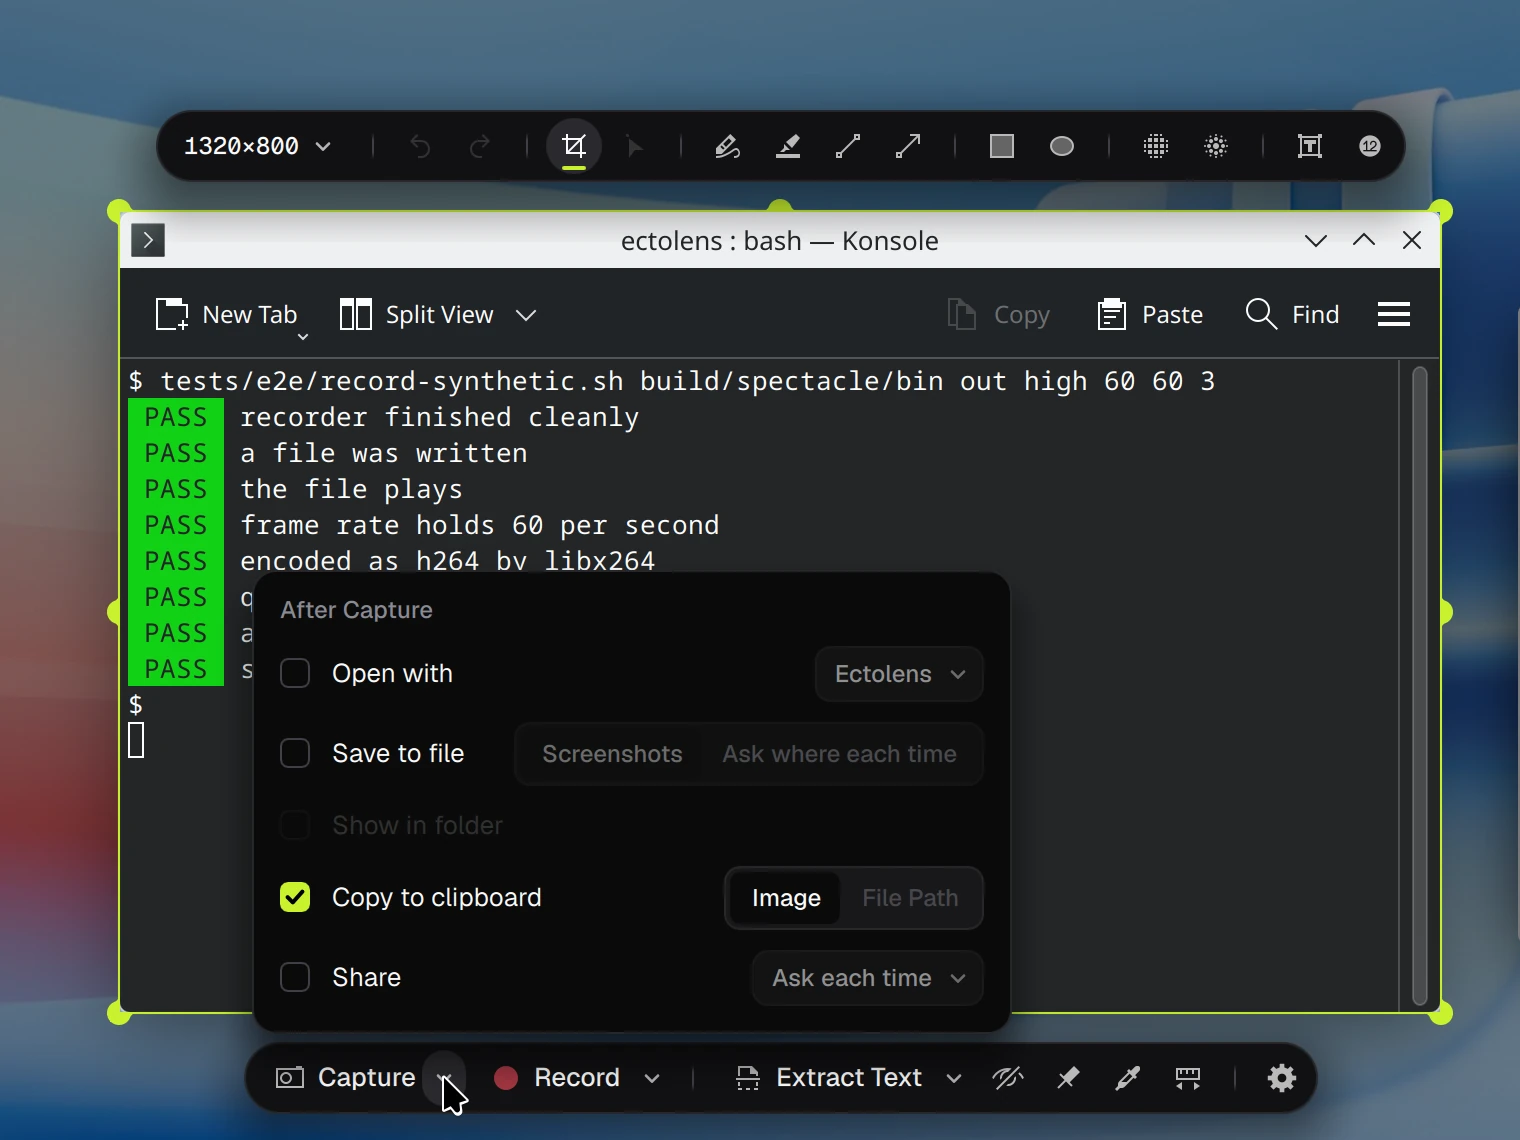
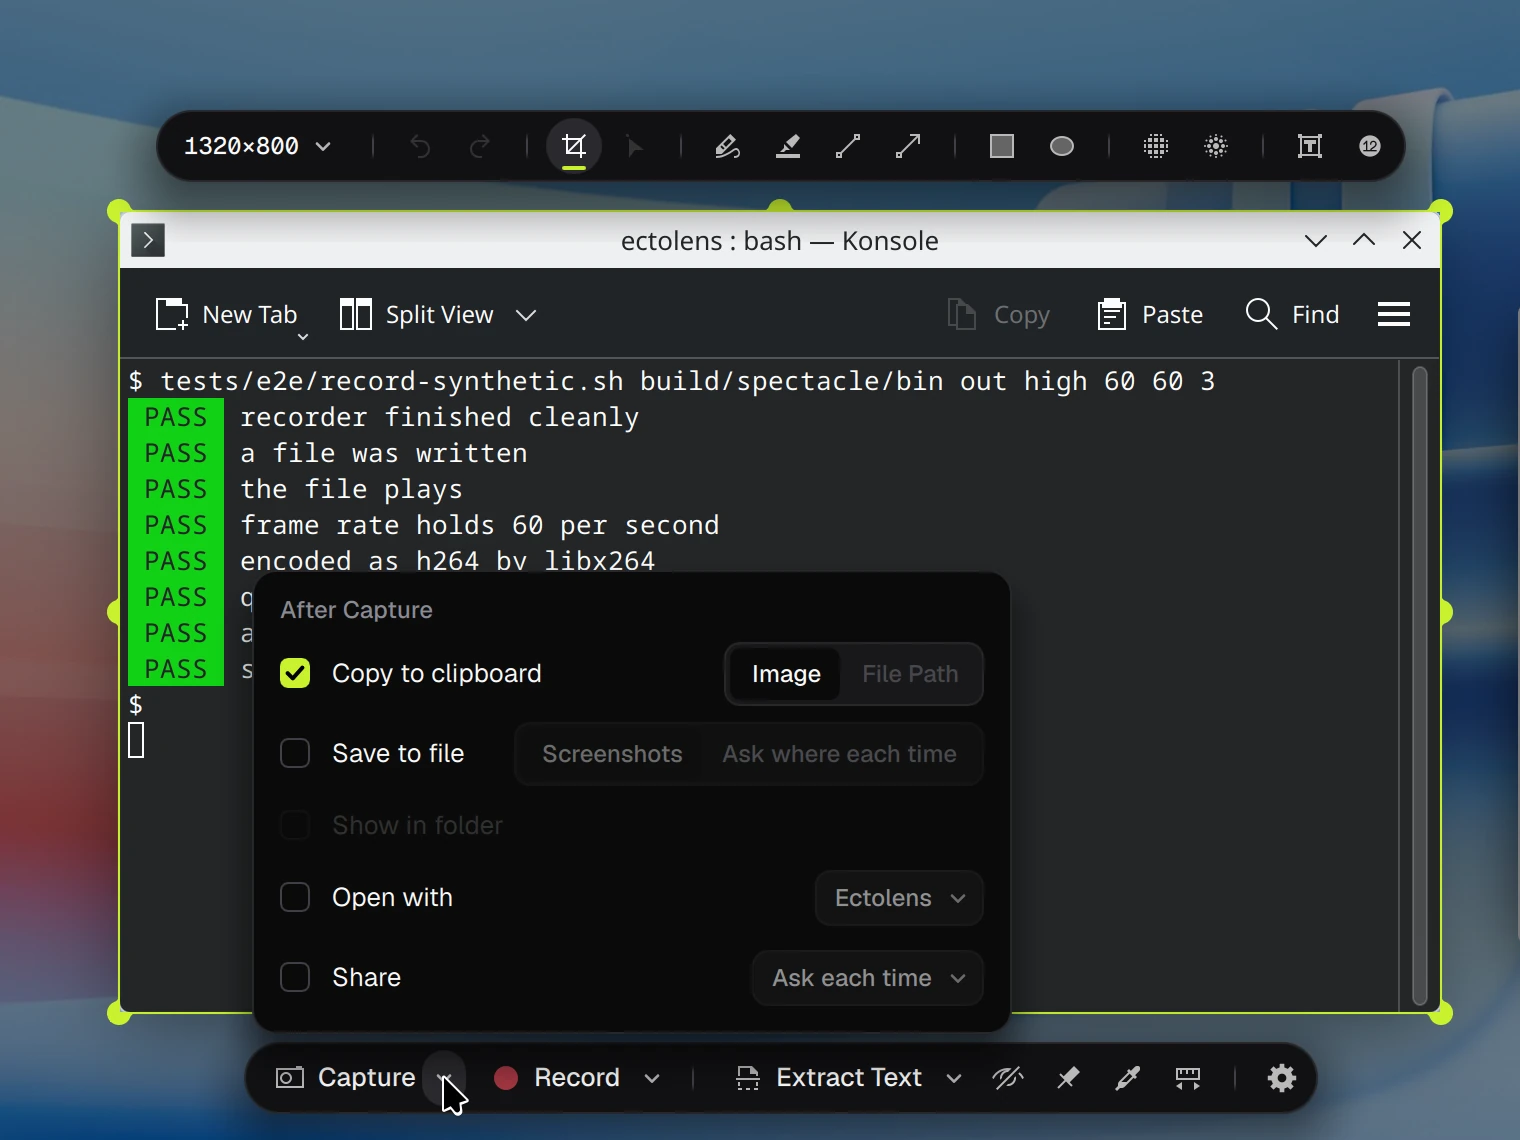
After Capture: Copy to clipboard first, Open with below Show in folder
The rows now read Copy to clipboard, Save to file, Show in folder, Open
with, Share, in Capture's menu and in Settings > General alike. The
README's picture of the menu is filmed again and its words follow the
new order, as does the design mock.

diff --git a/design/mock/ui-v2.html b/design/mock/ui-v2.html
@@ -422,12 +422,12 @@
 
   <div class="step">
     <div class="step-head"><div><span class="n">4</span><h3>Capture's menu</h3></div>
-      <p>Capture's arrow is one list of what happens after a capture. Every row is a check, so they stack, and a choice at the end of the row says how. Open with, at the top, opens it in an app: Ectolens's own window first (what Accept opens today), then your image apps. Save to file puts it in Screenshots, or asks where each time. Copy to clipboard puts the image, or once there is a saved file, its path, on the clipboard. Share sends it on through KDE's share services. Show in folder opens the folder with the file picked out. An unchecked row dims its choice. Ctrl+Shift+S still opens Save As for a single capture.</p>
+      <p>Capture's arrow is one list of what happens after a capture. Every row is a check, so they stack, and a choice at the end of the row says how. Copy to clipboard, at the top, puts the image, or once there is a saved file, its path, on the clipboard. Save to file puts it in Screenshots, or asks where each time. Show in folder opens the folder with the file picked out. Open with opens it in an app: Ectolens's own window first (what Accept opens today), then your image apps. Share sends it on through KDE's share services. An unchecked row dims its choice. Ctrl+Shift+S still opens Save As for a single capture.</p>
       <figure class="today"><img class="app-match" src="img/v2/today-framed.png" alt=""><figcaption>Today: Accept, Save, Save As, Copy, Export</figcaption></figure></div>
     <div class="app"><div class="detail artifact win"><div class="screen" data-scene="capmenu" data-crop="270,122"></div></div></div>
     <div class="afterrow">
       <div class="app"><div class="menu-art win" data-after="path"></div></div>
-      <p><b>File Path is locked until Save to file is checked,</b> because a path needs a saved file to point to. That's why Save to file sits above Copy to clipboard, with Show in folder right under it: both need the saved file, so both stay locked until it's checked. Uncheck Save to file while File Path is chosen and Copy goes back to Image. If Save is set to ask where and you cancel that dialog, there is no file, so Ectolens copies the image instead and the notification says it wasn't saved.</p>
+      <p><b>File Path is locked until Save to file is checked,</b> because a path needs a saved file to point to. Show in folder needs the saved file too, so it sits right under Save to file and stays locked until Save to file is checked. Uncheck Save to file while File Path is chosen and Copy goes back to Image. If Save is set to ask where and you cancel that dialog, there is no file, so Ectolens copies the image instead and the notification says it wasn't saved.</p>
     </div>
     <div class="mainwin">
       <p class="label"><b>The Ectolens window</b> today, a real capture: Print Screen, Konsole clicked, Enter</p>
@@ -641,13 +641,13 @@ const MI = (inner, cls = '') => `<div class="mi ${cls}">${inner}</div>`;
 const MH = t => `<div class="mh">${t}</div>`, MS = `<div class="ms"></div>`;
 const SUB = `<img class="sub" src="icons/arrow-down.svg" alt="">`;
 // After Capture: each feature is a check that stacks; how it works is the choice at the end of its row.
-// Save to file comes before Copy because a file path needs the saved file: File Path is locked until Save to file is checked.
+// Order (2026-11-12): Copy to clipboard, Save to file, Show in folder, Open with, Share. File Path is locked until Save to file is checked.
 const SEG = (keys, names, on, dim = false, locked = []) => `<span class="seg${dim ? ' dim' : ''}">${keys.map(k => `<span class="${k === on ? 'on' : ''}${locked.includes(k) ? ' locked' : ''}">${names[k]}</span>`).join('')}</span>`;
 const AFTER = (copy, clip, save, where) => MH('After Capture')
-  + `<div class="mrow">${CHECK(false, 'Open with')}${PICK('Ectolens', true)}</div>`
+  + `<div class="mrow">${CHECK(copy, 'Copy to clipboard')}${SEG(['picture', 'path'], {picture: 'Image', path: 'File Path'}, clip, !copy, save ? [] : ['path'])}</div>`
   + `<div class="mrow">${CHECK(save, 'Save to file')}${SEG(['shots', 'ask'], {shots: 'Screenshots', ask: 'Ask where each time'}, where, !save)}</div>`
   + `<div class="mrow${save ? '' : ' locked'}">${CHECK(false, 'Show in folder')}</div>`
-  + `<div class="mrow">${CHECK(copy, 'Copy to clipboard')}${SEG(['picture', 'path'], {picture: 'Image', path: 'File Path'}, clip, !copy, save ? [] : ['path'])}</div>`
+  + `<div class="mrow">${CHECK(false, 'Open with')}${PICK('Ectolens', true)}</div>`
   + `<div class="mrow">${CHECK(false, 'Share')}${PICK('Ask each time', true)}</div>`
 
 // a dropdown at the end of a row: the chosen app or service, with its arrow

diff --git a/src/Gui/AfterCaptureMenu.qml b/src/Gui/AfterCaptureMenu.qml
@@ -7,8 +7,8 @@ import org.kde.spectacle.private
 /**
  * Capture's arrow: one list of what happens after a capture (design proposal 2, step 4).
  * Every row is a check, so they stack, and a choice at the end of the row says how.
- * Save to file sits above Copy to clipboard because a file path needs the saved file:
- * File Path and Show in folder stay locked until Save to file is checked.
+ * Order: Copy to clipboard, Save to file, Show in folder, Open with, Share (Settings › General
+ * lists them the same way). File Path and Show in folder stay locked until Save to file is checked.
  */
 EctoMenu {
     id: root
@@ -19,15 +19,15 @@ EctoMenu {
 
     EctoMenuHeader { text: i18nc("@title:menu", "After Capture") }
     EctoMenuRow {
-        id: openRow
-        text: i18nc("@option:check after a capture", "Open with")
-        checked: Settings.afterCaptureOpen
-        onToggled: on => { Settings.afterCaptureOpen = on; root.save() }
-        EctoPick {
-            id: appPick
-            text: CaptureTools.appName(Settings.afterCaptureOpenApp)
-            dimmed: !Settings.afterCaptureOpen
-            onClicked: appMenu.openAt(appPick, "below")
+        text: i18nc("@option:check after a capture", "Copy to clipboard")
+        checked: Settings.afterCaptureCopy
+        onToggled: on => { Settings.afterCaptureCopy = on; root.save() }
+        EctoSegmented {
+            dimmed: !Settings.afterCaptureCopy
+            model: [{value: Settings.CopyTheImage, text: i18nc("@item copy", "Image")},
+                    {value: Settings.CopyTheFilePath, text: i18nc("@item copy", "File Path"), enabled: Settings.autoSaveImage}]
+            value: Settings.autoSaveImage ? Settings.afterCaptureCopyWhat : Settings.CopyTheImage
+            onPicked: v => { Settings.afterCaptureCopyWhat = v; root.save() }
         }
     }
     EctoMenuRow {
@@ -56,15 +56,15 @@ EctoMenu {
         onToggled: on => { Settings.afterCaptureShowInFolder = on; root.save() }
     }
     EctoMenuRow {
-        text: i18nc("@option:check after a capture", "Copy to clipboard")
-        checked: Settings.afterCaptureCopy
-        onToggled: on => { Settings.afterCaptureCopy = on; root.save() }
-        EctoSegmented {
-            dimmed: !Settings.afterCaptureCopy
-            model: [{value: Settings.CopyTheImage, text: i18nc("@item copy", "Image")},
-                    {value: Settings.CopyTheFilePath, text: i18nc("@item copy", "File Path"), enabled: Settings.autoSaveImage}]
-            value: Settings.autoSaveImage ? Settings.afterCaptureCopyWhat : Settings.CopyTheImage
-            onPicked: v => { Settings.afterCaptureCopyWhat = v; root.save() }
+        id: openRow
+        text: i18nc("@option:check after a capture", "Open with")
+        checked: Settings.afterCaptureOpen
+        onToggled: on => { Settings.afterCaptureOpen = on; root.save() }
+        EctoPick {
+            id: appPick
+            text: CaptureTools.appName(Settings.afterCaptureOpenApp)
+            dimmed: !Settings.afterCaptureOpen
+            onClicked: appMenu.openAt(appPick, "below")
         }
     }
     EctoMenuRow {

diff --git a/src/Gui/SettingsDialog/GeneralOptionsPage.cpp b/src/Gui/SettingsDialog/GeneralOptionsPage.cpp
@@ -134,7 +134,7 @@ void GeneralOptionsPage::buildAfterCapture()
     stringChoice(u"afterCaptureShareTarget"_s, targets, shareTo);
 
     int row = 0;
-    for (auto [box, choice] : std::initializer_list<std::pair<QCheckBox *, QComboBox *>>{{open, openApp}, {save, where}, {folder, nullptr}, {copy, what}, {share, shareTo}}) {
+    for (auto [box, choice] : std::initializer_list<std::pair<QCheckBox *, QComboBox *>>{{copy, what}, {save, where}, {folder, nullptr}, {open, openApp}, {share, shareTo}}) {
         grid->addWidget(box, row, 0);
         if (choice) {
             grid->addWidget(choice, row, 1);

diff --git a/README.md b/README.md
@@ -115,15 +115,15 @@ tools below.
 <img src="docs/pictures/readme-vs-framed.webp" width="100%" alt="The terminal framed, the divider sweeping from Spectacle to Ectolens. Spectacle: marking tools above the frame, a row of Accept, Cancel, Save, Save As, Copy, Extract Text and Export below it, and New Screenshot, New Recording and Options at the bottom of the screen. Ectolens: the frame's size and the marking tools above, and Capture, Record, Extract Text and the tools below">
 
 What a capture does next is set once, in **After Capture** on Capture's
-arrow, so Capture is the one button to press. The choices are to open it in
-an app, save it to a folder or ask where each time, show it in its folder,
-copy the picture or its file's path, and share it. Choose any mix, and
+arrow, so Capture is the one button to press. The choices are to copy the
+picture or its file's path, save it to a folder or ask where each time, show
+it in its folder, open it in an app, and share it. Choose any mix, and
 Ectolens does all of them each time you press Capture or Enter. To start
 with, After Capture copies the picture, or follows Spectacle's copy setting
 if you had one. A recording is always saved, in your Videos folder, and opens
 in the Ectolens window when Open with is set to Ectolens.
 
-<img src="docs/pictures/readme-after-capture.webp" width="100%" alt="The After Capture menu over a framed terminal: Open with Ectolens, Save to file in Screenshots or ask where each time, Show in folder, Copy to clipboard as the image or its file path, checked, and Share, asking each time">
+<img src="docs/pictures/readme-after-capture.webp" width="100%" alt="The After Capture menu over a framed terminal: Copy to clipboard as the image or its file path, checked, Save to file in Screenshots or ask where each time, Show in folder, Open with Ectolens, and Share, asking each time">
 
 ## Recording
 
